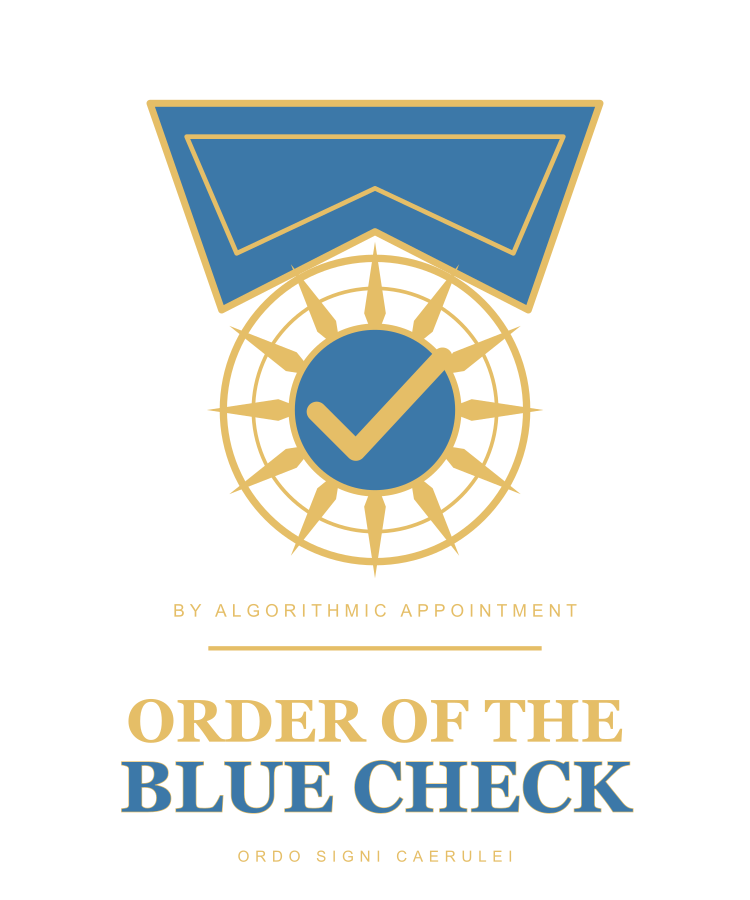
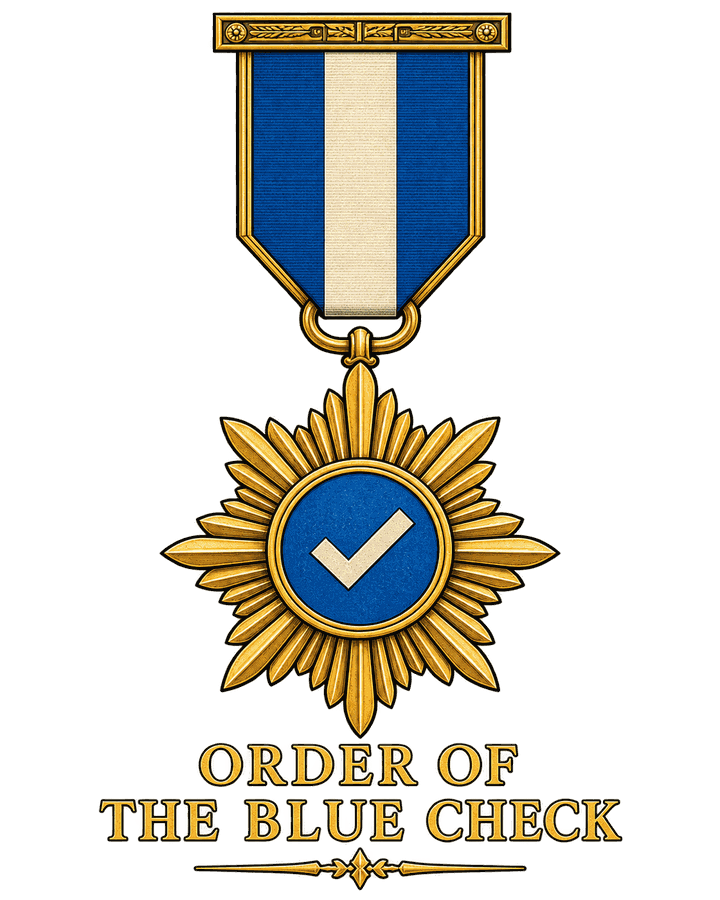
Adopt ornate artwork plates for Nos. 07-10
The imagery direction retired the line art for Nos. 07-10, but the
manifest, storefront, shop proof sheet, and production docs still
presented it as the launch artwork. Point all of them at the A07-A10
plates, label them as not print-ready, read price from the manifest,
and correct the shop collection counts to 4 / 4 / 2.

Claude-Session: https://claude.ai/code/session_019KYkRSWygg54ukykwo1bsc

diff --git a/docs/product/realm-front-art-production-notes.md b/docs/product/realm-front-art-production-notes.md
@@ -2,13 +2,14 @@
 
 ## Status
 
-All ten launch designs now have editable, transparent, 4500 × 5400 SVG masters and 750 × 900 PNG review renders. They are **print-oriented prototypes**, not files approved for fulfillment. Before upload, the selected Printify provider template must determine final physical dimensions, placement, color separation, and raster export settings. All typography must be converted to outlines in the final vendor file.
+Nos. 01–06 have editable, transparent, 4500 × 5400 SVG masters and 750 × 900 PNG review renders. Nos. 07–10 follow the **ornate full-colour direction** chosen in [`IMAGERY_DIRECTION.md`](../brand/IMAGERY_DIRECTION.md): their earlier line-art SVGs are retired (kept in the manifest as `legacyArtwork`), and the selected artwork is the A07–A10 plates in `design/mockups/royal-house/`. Those plates are 1122 × 1402 px, so they are **working plates, not print files**; each needs a vector redraw or an approved upscale to print resolution. All ten are **print-oriented prototypes**, not files approved for fulfillment. Before upload, the selected Printify provider template must determine final physical dimensions, placement, color handling, and raster export settings. Live type in the SVG masters must be converted to outlines in the final vendor file.
 
 ## Shared construction
 
 - One centered front print; no sleeve or back location.
-- Two printed colors per design. Garment-color knockouts are not additional ink.
-- Minimum principal stroke in the SVG masters: approximately 20–44 source pixels before provider scaling.
+- Nos. 01–06: two printed colors per design. Garment-color knockouts are not additional ink.
+- Nos. 07–10: full colour. Ink limits, dark-garment underbase, and minimum resolution must be confirmed with the provider.
+- Minimum principal stroke in the Nos. 01–06 SVG masters: approximately 20–44 source pixels before provider scaling.
 - Transparent background.
 - English joke remains dominant; Latin and dates remain subordinate.
 - No QR code in launch artwork.
@@ -24,17 +25,19 @@ All ten launch designs now have editable, transparent, 4500 × 5400 SVG masters 
 | 04 | `design/prototypes/04-content-creator.svg` | Warm white | Editorial black `#171713`; status red `#D9483B` | White status text is a garment-color knockout | Typewriter draft, unfinished status block, pending meaning |
 | 05 | `design/prototypes/05-authentic-self.svg` | Warm white | Editorial black `#171713`; status red `#D9483B` | White `MONETIZED` lettering is a garment-color knockout | Transactional listing and monetization stamp |
 | 06 | `design/prototypes/06-optimized-shirt.svg` | Warm white | Editorial black `#171713`; status red `#D9483B` | White remains the open report field | Experiment heading, result line, statistically insignificant chart |
-| 07 | `design/prototypes/07-much-published.svg` | Deep navy | Warm ivory `#F1E5C8`; antique gold `#D7A94B` | Navy motto lettering is marked as a garment-color knockout | Sovereign notification shield, abstract bird supporters, Wi-Fi crown, motto banner |
-| 08 | `design/prototypes/08-order-blue-check.svg` | Washed black | Appointment blue `#3C78A8`; antique gold `#E5BE67` | Black remains visible through open medal geometry | Ribbon, starburst medal, check device, appointment line, order title |
-| 09 | `design/prototypes/09-y2k-postponed.svg` | Oxblood | Warm ivory `#F2E6C9`; millennium gold `#E3B95F` | Oxblood remains visible through the clock, hourglass, and open proclamation field | `99 | 00` split clock, hourglass, separated proclamation rules |
-| 10 | `design/prototypes/10-saint-moth.svg` | Warm ivory | Archive navy `#183149`; antique gold `#C4933E` | Ivory remains visible through moth wings and halo | Natural-history moth, circuit halo, relay, feast date, unobstructed devotional title |
+| 07 | `design/mockups/royal-house/A07-much-published-little-said.png` | Deep navy | Full colour: peacock, macaw, navy shield, gold acanthus | Navy remains the field behind the shield and banner | Sovereign notification shield with peacock and parrot supporters, open book and sun, banner motto |
+| 08 | `design/mockups/royal-house/A08-order-blue-check.png` | Washed black | Full colour: blue-and-ivory ribbon, gold starburst medal | Black remains the field behind the medal | Ribbon, starburst medal, generic check device, order title |
+| 09 | `design/mockups/royal-house/A09-y2k-postponed.png` | Oxblood | Full colour: crown, `99 | 00` flip clock, hourglass, crossed cables, gold ornament | Oxblood remains the field behind the cartouche | Crowned cartouche, split clock, hourglass, crossed vintage cables, English and Latin banners |
+| 10 | `design/mockups/royal-house/A10-patron-saint-debugging.png` | Warm ivory | Full colour: natural-history moth, gold circuit halo, navy ornament | Ivory remains the field behind the moth | Realistic moth, circuit halo, vintage relay, English and Latin banners |
 
 ## Preflight gates
+
+Nos. 07–10 first need print-resolution artwork (vector redraw or approved upscale to 4500 × 5400 from the A07–A10 plates). Gates 3–4 below then apply to the Nos. 01–06 SVG masters; for Nos. 07–10 replace them with provider ink-limit and underbase review.
 
 1. Select the launch blank and Printify print provider.
 2. Place each master on that provider’s exact template at the intended physical width.
 3. Convert all live text to vector outlines while retaining a separate editable source copy.
-4. Convert the two printed colors to named spot-color layers; convert the No. 07 navy text to a true knockout.
+4. For Nos. 01–06, convert the two printed colors to named spot-color layers.
 5. Inspect minimum strokes, counters, trapping, and registration at actual size.
 6. Export provider-ready transparent PNGs at the provider’s required resolution and color profile.
 7. Order one sample per garment/color combination.

diff --git a/docs/product/launch-collection-matrix-v3.md b/docs/product/launch-collection-matrix-v3.md
@@ -24,10 +24,10 @@ All launch garments begin as **front-only prints**. House seals, QR destinations
 | 04 | **Content creator. Meaning pending.** | Public Notices | Preserve the typewriter/editorial construction, black status block, and `PLEASE WAIT`. | Independent observation | None required | Content I is an optional website reference only | House of Prompt, illuminated proclamation, Latin, heraldry | Refine existing SVG; do not royalize the front |
 | 05 | **My authentic self is currently being monetized.** | Public Notices | Preserve the auction/status-box composition with `MONETIZED` as the visual interruption. | Independent observation | None required | Algorithm I may be discussed on the product page, not printed | Royal portrait, title, Latin, House seal | Refine existing SVG; keep transactional visual language |
 | 06 | **I optimized this shirt for engagement.** | Public Notices | Preserve the experiment/report format and statistically insignificant result. | Light bureaucratic affinity, but no required lore | None required | Algorithm I may be referenced editorially | Bureau title, reign, crest, garment QR | Refine existing SVG; allow one small issue number if useful |
-| 07 | **Much Published, Little Said** | Court & Orders | Use the peacock-and-parrot arms as the complete front design. The motto is the complete declaration. | Sovereign, Realm-native design | The Royal House of Engagement | Perpetual house motto; no reign required | Additional title, back explanation, QR | Editable two-ink SVG prototype completed; provider preflight remains |
-| 08 | **Order of the Blue Check** | Court & Orders | Medal, ribbon, check device, and title form one centered front composition. | Realm-native order of merit | House of Influence | Algorithm I is optional provenance | Back print, wearer biography, second slogan | Editable two-ink SVG prototype completed; provider preflight remains |
-| 09 | **The End of the World Has Been Postponed** | Royal Commemorations | Use the `99 | 00` clock, crossed cables, crown, English line, and restrained Latin. | Full commemorative authority | House of Buffer | Y2K, the Almost; Vigil of the Missing Digits | Additional historical paragraph, garment QR | Editable two-ink SVG prototype completed; provider preflight remains |
-| 10 | **Patron Saint of Debugging** | Royal Commemorations | Use the moth, circuit halo, relay, title, and restrained Latin as one front emblem. | Full commemorative authority | House of Signal | Moth I; Feast of Saint Moth on September 9 | Long history, second title, garment QR | Editable two-ink SVG prototype completed; provider preflight remains |
+| 07 | **Much Published, Little Said** | Court & Orders | Use the peacock-and-parrot arms as the complete front design. The motto is the complete declaration. | Sovereign, Realm-native design | The Royal House of Engagement | Perpetual house motto; no reign required | Additional title, back explanation, QR | Ornate full-colour plate (A07) selected; line-art SVG retired. Print-resolution artwork and provider preflight remain |
+| 08 | **Order of the Blue Check** | Court & Orders | Medal, ribbon, check device, and title form one centered front composition. | Realm-native order of merit | House of Influence | Algorithm I is optional provenance | Back print, wearer biography, second slogan | Ornate full-colour plate (A08) selected; line-art SVG retired. Print-resolution artwork and provider preflight remain |
+| 09 | **The End of the World Has Been Postponed** | Royal Commemorations | Use the `99 | 00` clock, crossed cables, crown, English line, and restrained Latin. | Full commemorative authority | House of Buffer | Y2K, the Almost; Vigil of the Missing Digits | Additional historical paragraph, garment QR | Ornate full-colour plate (A09) selected; line-art SVG retired. Print-resolution artwork and provider preflight remain |
+| 10 | **Patron Saint of Debugging** | Royal Commemorations | Use the moth, circuit halo, relay, title, and restrained Latin as one front emblem. | Full commemorative authority | House of Signal | Moth I; Feast of Saint Moth on September 9 | Long history, second title, garment QR | Ornate full-colour plate (A10) selected; line-art SVG retired. Print-resolution artwork and provider preflight remain |
 
 ## Information-placement matrix
 
@@ -77,12 +77,12 @@ These three deliberately test **no lore**, **light lore**, and **moderate lore**
 
 Completed as print-oriented prototypes on October 16, 2026:
 
-4. No. 07 Much Published — editable two-ink vector plus garment-color knockout.
-5. No. 09 Y2K — editable two-ink limited-color vector.
-6. No. 10 Saint Moth — editable two-ink limited-color vector.
-7. No. 08 Blue Check — editable two-ink vector.
+4. No. 07 Much Published — ornate full-colour plate (A07); the earlier two-ink line art is retired.
+5. No. 09 Y2K — ornate full-colour plate (A09); line art retired.
+6. No. 10 Saint Moth — ornate full-colour plate (A10); line art retired.
+7. No. 08 Blue Check — ornate full-colour plate (A08); line art retired.
 
-Provider-template sizing, outlined typography, separations, sampling, and wash testing remain open gates.
+Print-resolution redraws or approved upscales, provider-template sizing, ink-limit review, sampling, and wash testing remain open gates.
 
 ### Priority C — Complete the Public Notices
 

diff --git a/docs/product/apparel-manifest.md b/docs/product/apparel-manifest.md
@@ -28,10 +28,10 @@ The Crown governs the Attention Economy by converting attention into impressions
 | 4 | Content creator. Meaning pending. | Public Notices | None | Editable SVG | Planned |
 | 5 | My authentic self is currently being monetized. | Public Notices | None | Editable SVG | Planned |
 | 6 | I optimized this shirt for engagement. | Public Notices | Light | Editable SVG | Planned |
-| 7 | Much Published, Little Said | Court & Orders | Full | Editable two-ink SVG | Planned |
-| 8 | Order of the Blue Check | Court & Orders | Full | Editable two-ink SVG | Planned |
-| 9 | The End of the World Has Been Postponed | Royal Commemorations | Full | Editable two-ink SVG | Planned |
-| 10 | Patron Saint of Debugging | Royal Commemorations | Full | Editable two-ink SVG | Planned |
+| 7 | Much Published, Little Said | Court & Orders | Full | Ornate art plate | Planned |
+| 8 | Order of the Blue Check | Court & Orders | Full | Ornate art plate | Planned |
+| 9 | The End of the World Has Been Postponed | Royal Commemorations | Full | Ornate art plate | Planned |
+| 10 | Patron Saint of Debugging | Royal Commemorations | Full | Ornate art plate | Planned |
 
 The ten garments are one wardrobe with three degrees of ceremony. **Public Notices** are direct editorial observations and do not need a House. **Court & Orders** use appointments, institutions, medals, seals, or sovereign heraldry where those devices establish authority. **Royal Commemorations** use lineage and calendar history as the premise itself.
 
@@ -64,7 +64,7 @@ The exact `frontArtDisplay` image is the storefront authority for what will prin
 
 The current storefront is a direct-buy test flow, not a persistent shopping cart: one product selection is sent to Stripe Checkout. The backend can validate multiple order lines, but a multi-item cart interface has not yet been implemented or approved for launch.
 
-The complete ten-design vector set and its provider preflight gates are documented in [`realm-front-art-production-notes.md`](realm-front-art-production-notes.md).
+The front-art status of all ten designs and their provider preflight gates are documented in [`realm-front-art-production-notes.md`](realm-front-art-production-notes.md).
 
 ## Validation
 

diff --git a/docs/product/ECOSYSTEM_APPAREL_CATALOG.md b/docs/product/ECOSYSTEM_APPAREL_CATALOG.md
@@ -48,10 +48,10 @@ These records remain authoritative over every expansion classification. Existing
 | F04 | Content creator. Meaning pending. | Public Notices | PN | None required | Editable artwork: design/prototypes/04-content-creator.svg |
 | F05 | My authentic self is currently being monetized. | Public Notices | PN | None required | Editable artwork: design/prototypes/05-authentic-self.svg |
 | F06 | I optimized this shirt for engagement. | Public Notices | PN | None required | Editable artwork: design/prototypes/06-optimized-shirt.svg |
-| F07 | Much Published, Little Said | Court & Orders | CO | The Royal House of Engagement | Editable artwork: design/prototypes/07-much-published.svg |
-| F08 | Order of the Blue Check | Court & Orders | CO | House of Influence | Editable artwork: design/prototypes/08-order-blue-check.svg |
-| F09 | The End of the World Has Been Postponed | Royal Commemorations | RC | House of Buffer | Editable artwork: design/prototypes/09-y2k-postponed.svg |
-| F10 | Patron Saint of Debugging | Royal Commemorations | RC | House of Signal | Editable artwork: design/prototypes/10-saint-moth.svg |
+| F07 | Much Published, Little Said | Court & Orders | CO | The Royal House of Engagement | Artwork plate (not print-ready): design/mockups/royal-house/A07-much-published-little-said.png |
+| F08 | Order of the Blue Check | Court & Orders | CO | House of Influence | Artwork plate (not print-ready): design/mockups/royal-house/A08-order-blue-check.png |
+| F09 | The End of the World Has Been Postponed | Royal Commemorations | RC | House of Buffer | Artwork plate (not print-ready): design/mockups/royal-house/A09-y2k-postponed.png |
+| F10 | Patron Saint of Debugging | Royal Commemorations | RC | House of Signal | Artwork plate (not print-ready): design/mockups/royal-house/A10-patron-saint-debugging.png |
 
 ## First expansion tranche
 

diff --git a/docs/brand/IMAGERY_DIRECTION.md b/docs/brand/IMAGERY_DIRECTION.md
@@ -1,6 +1,6 @@
 # Imagery Direction
 
-Status: working direction, drafted from the existing reference images. Extends [`HERALDIC_SYSTEM.md`](HERALDIC_SYSTEM.md), which still governs the marks themselves: **SVG files are canonical; raster images establish atmosphere, material, scale, and photography.** Nothing here overrides current names, copy, or product specifications in the master manifest.
+Status: working direction, drafted from the existing reference images. Extends [`HERALDIC_SYSTEM.md`](HERALDIC_SYSTEM.md), which still governs the marks themselves: **SVG files are canonical for the marks; raster images establish atmosphere, material, scale, and photography.** The one exception is Nos. 07–10, where the decision below makes the ornate raster plates the design source until print-resolution vector redraws exist. Nothing here overrides current names, copy, or product specifications in the master manifest.
 
 The [`Ecosystem Apparel Catalog`](../product/ECOSYSTEM_APPAREL_CATALOG.md) applies this direction to the complete 104-product creative inventory. It determines whether a concept remains a typographic Public Notice or earns a House Warrant, Court & Order, or Royal Commemoration treatment before imagery is commissioned.
 

diff --git a/docs/product/realm-artwork-prompts.md b/docs/product/realm-artwork-prompts.md
@@ -1,6 +1,6 @@
 # Realm Artwork Mockup Record
 
-These four storefront mockups complete the visual ten-shirt founding wardrobe. They remain concept images for merchandising evaluation. Editable, limited-color front-art prototypes now live in `design/prototypes/07-much-published.svg` through `10-saint-moth.svg`; they still require provider-template sizing, font outlining, separation review, and physical sampling before production.
+These four storefront mockups complete the visual ten-shirt founding wardrobe. They remain concept images for merchandising evaluation. The ornate full-colour artwork plates `A07`–`A10` in `design/mockups/royal-house/` are the selected front-art direction for Nos. 07–10 (the earlier line-art SVGs in `design/prototypes/` are retired). They are below print resolution and still require a vector redraw or approved upscale, provider ink-limit review, and physical sampling before production.
 
 The subsequent front/back merger pilot and its governing rules are documented in [`realm-garment-system-v2.md`](realm-garment-system-v2.md).
 

diff --git a/docs/brand/IMAGERY_PRODUCTION_LOG.md b/docs/brand/IMAGERY_PRODUCTION_LOG.md
@@ -26,3 +26,7 @@ All four files have transparent backgrounds and were generated with the built-in
 3. Decide whether A03 receives the proposed lion-and-loading-spinner redesign before generating it.
 4. Produce print-resolution redraws or approved high-quality upscales, then order physical samples before treating any plate as production art.
 5. Only after the plates are approved, use them as locked references for future P07–P10 garment images.
+
+## 2026-10-31 — Plates adopted as storefront display art
+
+The A07–A10 plates became the display art for Nos. 07–10 on the storefront and replaced the retired line art in the shop proof sheet. The site files `website/public/assets/front-art-07…10-*.png` are 720 × 900 palette-quantized derivatives of the plates, made for web delivery only. They are not print files, and the product pages label them "Artwork plate · not yet print-ready".
